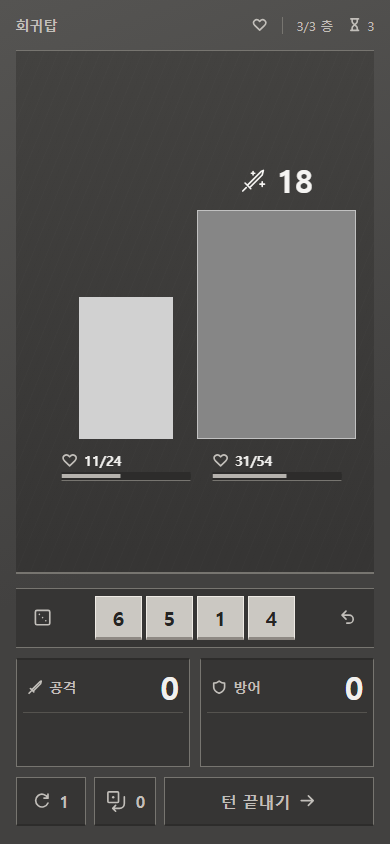
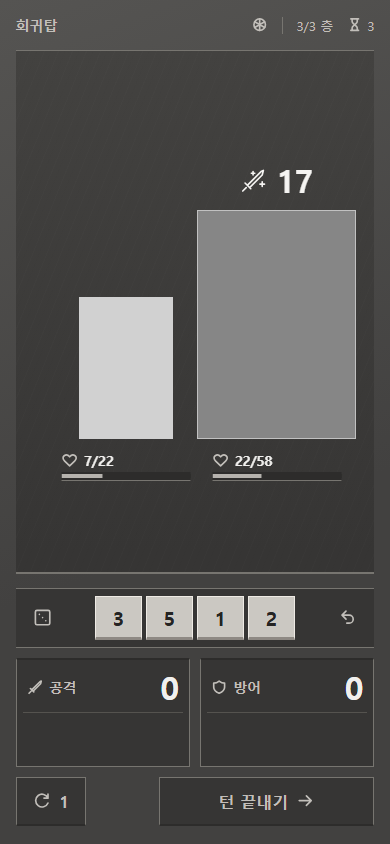
Measure defeat turns and narrow the fourth-die completion gap

diff --git a/src/ascent.ts b/src/ascent.ts
@@ -8,32 +8,35 @@ import type { Hand, YachtBattle } from './yacht-combat.ts'
 export const ASCENT_ENEMIES = [
   {
     hp: 30,
+    attackPerUnlock: 0,
     intents: [
-      { ...ENEMY_INTENTS[0], hits: [13] },
-      ENEMY_INTENTS[1],
+      { ...ENEMY_INTENTS[0], hits: [15] },
+      { ...ENEMY_INTENTS[1], hits: [3, 3, 3] },
     ],
   },
   {
-    hp: 52,
+    hp: 45,
+    attackPerUnlock: 2,
     intents: [
-      { id: 'combo', name: '연타', hits: [3, 3, 3], matches: (turn) => turn % 4 === 1 },
-      { id: 'impact', name: '한 방', hits: [3], matches: (turn) => turn % 4 === 2 },
+      { id: 'combo', name: '연타', hits: [1, 1, 2], matches: (turn) => turn % 4 === 1 },
+      { id: 'impact', name: '한 방', hits: [12], matches: (turn) => turn % 4 === 2 },
       { id: 'charge', name: '힘 모으기', hits: [], previewNextAttack: true, matches: (turn) => turn % 4 === 3 },
-      { id: 'critical', name: '치명 일격', hits: [16], matches: (turn) => turn % 4 === 0 },
+      { id: 'critical', name: '치명 일격', hits: [14], matches: (turn) => turn % 4 === 0 },
     ],
   },
   {
-    hp: 54,
+    hp: 58,
+    attackPerUnlock: 1,
     attackGrowth: 0,
     intents: [
-      { id: 'combo', name: '연타', hits: [1, 1, 1, 1], matches: (turn) => turn % 5 === 1 },
+      { id: 'combo', name: '연타', hits: [2, 2], matches: (turn) => turn % 5 === 1 },
       { id: 'charge', name: '힘 모으기', hits: [], previewNextAttack: true, matches: (turn) => turn % 5 === 2 },
       { id: 'critical', name: '치명 일격', hits: [16], matches: (turn) => turn % 5 === 3 },
-      { id: 'knockdown', name: '넉다운', hits: [], damageTakenMultiplier: 1.5, matches: (turn) => turn % 5 === 4 },
-      { id: 'impact', name: '한 방', hits: [7], matches: (turn) => turn % 5 === 0 },
+      { id: 'knockdown', name: '넉다운', hits: [], damageTakenMultiplier: 3, matches: (turn) => turn % 5 === 4 },
+      { id: 'impact', name: '한 방', hits: [12], matches: (turn) => turn % 5 === 0 },
     ],
   },
-] as const satisfies readonly Enemy[]
+] as const satisfies readonly (Enemy & { readonly attackPerUnlock: number })[]
 
 export const FIGHT_COUNT = ASCENT_ENEMIES.length
 
@@ -74,9 +77,10 @@ export function nextAscentFight(ascent: Ascent): Ascent {
   const { seed, perk, unlocks } = ascent
   const fight = ascent.fight + 1
   const fightSeed = (seed ^ Math.imul(fight - 1, 0x9e3779b9)) >>> 0
+  const enemy = ASCENT_ENEMIES[fight - 1]
   const battle = startYachtBattle(
     fightSeed, ascent.battle.playerHp, unlocks.includes('triple'), unlocks.includes('straight'), perk,
-    ASCENT_ENEMIES[fight - 1], unlocks.length,
+    enemy, unlocks.length * enemy.attackPerUnlock,
   )
   return { ...ascent, fight, battle, newUnlock: null }
 }

diff --git a/exp/boss/REPORT-BOSS.md b/exp/boss/REPORT-BOSS.md
@@ -1,69 +1,83 @@
-# 첫 전투와 보스 행동 실험
+# 보스 치명 일격과 네 번째 주사위 격차
 
-`node exp/level.mjs`로 시드 0~511을 실행했다. 공개 기준판은 `3bc6bbd`, 직전 실험판은 `70fa194`다. 대응 봇은 시드마다 나머지 511개 시드의 완주 수로 제시된 특전 세 개의 순위를 매기고, 동률이면 제시 순서대로 골랐다. 승률의 분모는 해당 전투 진입 수다. 전체 평균은 패배한 전투도 포함한다. 정확 방어 룰렛은 해당 턴에 포함했다.
+`node exp/level.mjs`로 기준판 `0f0e81b`와 조정판을 각각 시드 0~511에서 실행했다. 대응 봇은 각 시드에서 나머지 511개 시드의 완주 수를 기준으로 제시된 특전 중 하나를 고른다. 동률이면 제시 순서대로 고른다. 전투 승률의 분모는 그 전투에 진입한 등반 수이고, 전체 턴 평균에는 패배가 포함된다. 룰렛은 발생한 턴에 포함했다.
 
-## AI가 정한 적 수치
+## 네 번째 주사위 없이 패배한 턴
 
-| 전투 | 적 체력 직전 → 현행 | 연타 직전 → 현행 | 한 방 직전 → 현행 | 치명 일격 직전 → 현행 |
-| --- | ---: | ---: | ---: | ---: |
-| 1 | 30 | 4×3 | 13 | — |
-| 2 | 27 → 52 | 1×11 → 3×3 | 4 → 3 | 35 → 16 |
-| 3 보스 | 33 → 54 | 1×7 → 1×4 | 8 → 7 | 23 → 16 |
+트리플을 한 번도 해금하지 않고 끝난 등반의 마지막 전투·턴·적 행동을 집계했다. 일반 수는 한 방과 연타다. `node exp/level.mjs`의 `noTripleDefeats`에 턴별 세부 행동과 진입 시 버프가 있던 패배 수도 출력된다.
 
-2·3전투는 진입 시 해금 수에 따라 타격당 +0~2를 적용한다. 보스의 턴 경과 보정은 0이다.
+| 전투 | 종료 행동 | 기준판 패배 턴과 건수 | 합계 | 조정판 패배 턴과 건수 | 합계 |
+| --- | --- | --- | ---: | --- | ---: |
+| 1 | 일반 수 | 3턴 2, 4턴 1, 5턴 8, 6턴 5, 7턴 5, 8턴 1, 9턴 1, 10턴 2, 11턴 1 | 26 | 3턴 10, 4턴 2, 5턴 12, 7턴 2 | 26 |
+| 2 | 일반 수 | 1턴 3, 5턴 8 | 11 | 2턴 20, 5턴 2, 6턴 12 | 34 |
+| 2 | 치명 일격 | 4턴 87 | 87 | 4턴 66, 8턴 2 | 68 |
+| 2 | 힘 모으기 | 0 | 0 | 0 | 0 |
+| 3 | 일반 수 | 5턴 2 | 2 | 5턴 1 | 1 |
+| 3 | 치명 일격 | 3턴 116 | 116 | 3턴 113 | 113 |
+| 3 | 힘 모으기 | 0 | 0 | 0 | 0 |
+| 3 | 넉다운 | 0 | 0 | 0 | 0 |
 
-| 전투 | 진입 시 해금 수 | 치명 일격 | 다른 행동의 최대 피해 합 | 치명 일격의 피해 우위 |
-| --- | ---: | ---: | ---: | ---: |
-| 2 | 0 / 1 / 2 | 16 / 17 / 18 | 9 / 12 / 15 | +7 / +5 / +3 |
-| 3 보스 | 0 / 1 / 2 | 16 / 17 / 18 | 7 / 8 / 12 | +9 / +9 / +6 |
+두 판 모두 미획득 패배는 242회였다. 기준판에서 치명 일격 턴 패배는 203회였고 그중 116회는 3연속 해금으로 진입 시 적 버프가 이미 붙어 있었다. 조정판의 치명 일격 턴 패배는 181회였다. 넉다운과 힘 모으기에서 발생한 패배는 두 판 모두 0회였다.
 
-치명 일격 최대 피해는 18이며, 기본 플레이어 최대 체력은 22다. 피해 16·17·18은 각각 `[6, 6, 4]`, `[6, 6, 5]`, `[6, 6, 6]`으로 정확 방어할 수 있다.
+## 조정 순서와 적용 수치
 
-| 보스 턴 | 행동 | 적이 주는 피해 | 예고 숫자 | 플레이어 공격 |
-| --- | --- | ---: | ---: | --- |
-| 2, 7, 12… | 힘 모으기 | 0 | 다음 치명 일격 16~18 | 공격 합 ×1 |
-| 3, 8, 13… | 치명 일격 | 16~18 | 16~18 | 공격 합 ×1. 정확 방어 시 룰렛 |
-| 4, 9, 14… | 넉다운 | 0 | ×1.5 | 공격 합 ×1.5, 소수점 내림 |
+| 순서 | 비교한 수치 | 관측 결과 |
+| --- | --- | --- |
+| 1. 해금당 타격 피해 | +1 기준에서 +2와 +3을 시험했다. 피해 상한에 맞춰 치명 일격과 연타의 기본 피해를 낮췄다. | +2는 격차 34.42%p, 완주 71.29%였다. +3은 격차 26.01%p, 완주 79.88%였다. 두 조합 모두 2전투 승률과 완주율 상한을 넘었다. |
+| 2. 보스 체력과 넉다운 배수 | 보스 체력 29~74, 배수 ×1.25~×4를 비교했다. | 나머지 목표 띠에 든 후보의 예로 보스 체력 54와 ×2에서 격차 51.33%p가 나왔다. |
+| 3. 치명 일격의 최소 피해 우위 | 3에서 2로 낮췄다. 2전투를 기준 수치로 두고 보스 해금당 +2, 체력 74, ×1.25를 시험했다. | 격차 47.73%p였고 완주율 52.73%로 목표 상한을 넘었다. |
+| 4. 1·2전투 수치 | 앞서 시험한 버프와 보스 수치를 포함해 적 체력과 행동별 피해를 함께 조정했다. | 피해 상한과 나머지 띠를 충족한 조합 가운데 격차가 가장 낮은 40.40%p를 실험 갈래에 적용했다. |
 
-2전투는 3·7·11…턴의 힘 모으기에서 다음 치명 일격 피해 16~18을 예고한다.
+| 전투 | 적 체력 기준 → 조정 | 연타 기준 → 조정 | 한 방 기준 → 조정 | 치명 일격 기준 → 조정 | 해금당 타격 피해 보정 |
+| --- | ---: | --- | ---: | ---: | ---: |
+| 1 | 30 → 30 | 4×3 → 3×3 | 13 → 15 | — | 0 |
+| 2 | 52 → 45 | 3×3 → 1+1+2 | 3 → 12 | 16 → 14 | +1 → +2 |
+| 3 보스 | 54 → 58 | 1×4 → 2×2 | 7 → 12 | 16 → 16 | +1 → +1 |
+
+보스 넉다운의 받는 피해 배수는 ×1.5에서 ×3으로 바꿨다. 적의 타격 피해 보정은 전투 진입 시 해금 수에 새 값을 곱한다. 2전투는 해금 0·1·2개에서 치명 일격이 각각 14·16·18, 다른 행동의 최대 피해 합은 12·14·16이다. 보스는 치명 일격이 16·17·18, 다른 행동의 최대 피해 합은 12·13·14다. 두 전투의 치명 일격은 최대 18로, 기본 최대 체력 22보다 작고 모든 해금 수에서 세 주사위로 정확 방어할 수 있다.
+
+버프는 네 번째 주사위 없이 3연속만 해금한 등반에도 적용된다. 치명 일격 상한 18과 최소 피해 우위 2 때문에 다른 행동의 피해도 최대 16으로 제한된다. 적용 조합에서도 미획득 패배 242회 중 181회가 치명 일격 턴에 집중됐고, 동일한 시점에서 비교한 트리플 획득 집단의 완주율은 아래와 같이 높았다. 이 조건에서 15%p 이하인 조합을 이번 탐색에서는 찾지 못했다.
 
 ## 전투별 평균 턴과 승률
 
-| 특전 조건 | 전투 | 승리 평균 턴 공개 → 직전 → 현행 | 전체 평균 턴 공개 → 직전 → 현행 | 승률 공개 → 직전 → 현행 |
-| --- | --- | ---: | ---: | --- |
-| 대응 봇 선택 | 1 | 5.55 → 3.02 → 3.67 | 5.64 → 3.12 → 3.83 | 94.14% → 95.31% → 485/512 (94.73%) |
-| 대응 봇 선택 | 2 | 4.68 → 3.12 → 5.99 | 4.67 → 2.60 → 5.57 | 75.73% → 75.41% → 383/485 (78.97%) |
-| 대응 봇 선택 | 3 | 2.89 → 2.98 → 4.83 | 2.49 → 2.86 → 4.22 | 62.47% → 69.02% → 253/383 (66.06%) |
-| 없음 | 1 | 5.71 → 3.98 → 3.98 | 5.84 → 4.17 → 4.17 | 88.28% → 87.89% → 450/512 (87.89%) |
-| 없음 | 2 | 4.76 → 3.36 → 6.17 | 4.61 → 2.64 → 5.61 | 69.69% → 69.33% → 322/450 (71.56%) |
-| 없음 | 3 | 2.91 → 3.00 → 4.83 | 2.46 → 2.88 → 4.12 | 58.73% → 61.22% → 198/322 (61.49%) |
+| 전투 | 승리 평균 턴 기준 → 조정 | 전체 평균 턴 기준 → 조정 | 승률 기준 → 조정 |
+| --- | ---: | ---: | --- |
+| 1 | 3.67 → 3.32 | 3.83 → 3.37 | 485/512 (94.73%) → 486/512 (94.92%) |
+| 2 | 5.99 → 5.23 | 5.57 → 4.94 | 383/485 (78.97%) → 376/486 (77.37%) |
+| 3 | 4.83 → 4.06 | 4.22 → 3.69 | 253/383 (66.06%) → 244/376 (64.89%) |
 
 ## 레벨 목표 띠
 
-특전을 고르는 대응 봇 512개 등반 기준이다. 해금 차이는 4번째 주사위 획득 여부별 완주율의 절대 차이다.
-
-| 지표 | 목표 | 공개 기준판 | 직전 | 현행 | 판정 |
-| --- | ---: | ---: | ---: | ---: | --- |
-| 1전투 승리 평균 턴 | 3~4 | 5.55 | 3.02 | 3.67 | 충족 |
-| 1전투 전체 평균 턴 | 3~4 | 5.64 | 3.12 | 3.83 | 충족 |
-| 1전투 승률 | 90~97% | 94.14% | 95.31% | 94.73% | 충족 |
-| 2전투 승률 | 70~80% | 75.73% | 75.41% | 78.97% | 충족 |
-| 3전투 승률 | 55~70% | 62.47% | 69.02% | 66.06% | 충족 |
-| 완주율 | 35~50% | 228/512 (44.53%) | 254/512 (49.61%) | 253/512 (49.41%) | 충족 |
-| 4번째 주사위 획득 등반 완주율 | — | 71/129 (55.04%) | 75/125 (60.00%) | 123/140 (87.86%) | — |
-| 4번째 주사위 미획득 등반 완주율 | — | 157/383 (40.99%) | 179/387 (46.25%) | 130/372 (34.95%) | — |
-| 해금 차이 | ≤15%p | 14.05%p | 13.75%p | 52.91%p | 미충족 |
-
-피해 상한, 치명 일격의 최소 피해 우위, 전투별 목표 띠를 모두 충족하는 조합은 이번 탐색에서 찾지 못했다. 적용 조합은 두 전투의 연타 합과 한 방 피해를 줄이고, 적 체력을 올려 승률과 완주율을 맞췄다.
+| 지표 | 목표 | 기준판 | 조정판 | 판정 |
+| --- | ---: | ---: | ---: | --- |
+| 1전투 승리 평균 턴 | 3~4 | 3.67 | 3.32 | 충족 |
+| 1전투 전체 평균 턴 | 3~4 | 3.83 | 3.37 | 충족 |
+| 1전투 승률 | 90~97% | 94.73% | 94.92% | 충족 |
+| 2전투 승률 | 70~80% | 78.97% | 77.37% | 충족 |
+| 3전투 승률 | 55~70% | 66.06% | 64.89% | 충족 |
+| 완주율 | 35~50% | 253/512 (49.41%) | 244/512 (47.66%) | 충족 |
+| 네 번째 주사위 획득 등반 완주율 | — | 123/140 (87.86%) | 95/121 (78.51%) | — |
+| 미획득 등반 완주율 | — | 130/372 (34.95%) | 149/391 (38.11%) | — |
+| 획득 여부별 완주율 차이 | ≤15%p | 52.91%p | 40.40%p | 미충족 |
 
 특전을 다음 단계에서 전면 교체하므로 무특전 대비 +5%p 목표는 이번 조정의 통과 기준에서 제외했다.
+
+## 트리플 획득 시점 이후 완주율
+
+첫 트리플이 나온 턴의 배치 결과 직후를 기준으로, 같은 전투·턴과 남은 전투 수에서 살아 있는 미획득 등반과 비교했다. 진행 중인 전투는 남은 전투에 포함했다. 미획득 등반은 이후 트리플을 얻을 수 있으며, 각 시점의 완주율을 그 시점의 획득 건수로 가중했다. 비교군이 없는 획득 건은 두 판 모두 0회였다.
+
+| 남은 전투 | 기준 획득 완주 | 기준 미획득 가중 완주율 | 기준 차이 | 조정 획득 완주 | 조정 미획득 가중 완주율 | 조정 차이 | 조정 비교 관측 수 |
+| --- | ---: | ---: | ---: | ---: | ---: | ---: | ---: |
+| 3 | 36/38 (94.74%) | 44.85% | 49.89%p | 21/27 (77.78%) | 44.11% | 33.67%p | 1073 |
+| 2 | 45/51 (88.24%) | 46.13% | 42.11%p | 40/47 (85.11%) | 49.30% | 35.81%p | 1271 |
+| 1 | 37/40 (92.50%) | 65.91% | 26.59%p | 27/33 (81.82%) | 59.86% | 21.95%p | 551 |
 
 ## 검증
 
 - `npm.cmd test` 48/48, `npx.cmd --no-install tsc --noEmit`, `npm.cmd run build` 통과.
-- 시험에서 2·3전투 각각 해금 0·1·2개의 치명 일격 피해가 24 이하이면서 22 미만임을 확인했다. 각 경우에 세 주사위로 정확 방어해 룰렛이 열렸다.
-- 시드 249와 추가 체력으로 3전투를 두 번 완주했다. 매 턴의 주사위와 배치, 해결 결과, 보스 치명 일격의 정확 방어 룰렛과 이어지는 넉다운을 시험에서 비교했다.
-- Edge 390×844, 시드 249, 추가 체력, 해금 2개. 2·3전투 힘 모으기와 치명 일격에 18이 표시됐다. 보스의 정확 방어 룰렛을 돌린 뒤 넉다운 예고가 표시됐다.
-- 보스 예고 캡처 · [힘 모으기 18](mobile-01-charge.png) · [치명 일격 18](mobile-02-critical.png) · [넉다운 ×1.5](mobile-03-knockdown.png)
+- 해금 0·1·2개 모두에서 2·3전투 치명 일격이 세 주사위로 정확 방어 가능하며, 다른 공격의 합보다 최소 2 크다는 시험을 통과했다.
+- 시드 245와 룰렛 강화로 3전투를 두 번 완주했다. 매 턴의 배치와 결과, 보스 치명 일격의 정확 방어 룰렛과 이어지는 넉다운이 일치했다.
+- Edge 390×844, 시드 245, 룰렛 강화, 3연속만 해금. 힘 모으기와 치명 일격 예고가 2전투에서 16, 보스전에서 17이었다. 주사위 세 개로 보스 치명 일격을 정확 방어해 룰렛을 돌린 뒤 넉다운 ×3 예고가 표시됐다.
+- 보스 예고 캡처 · [힘 모으기 17](mobile-01-charge.png) · [치명 일격 17](mobile-02-critical.png) · [넉다운 ×3](mobile-03-knockdown.png)
 
-진행 기록 · 2·3전투 피해와 적 체력을 조정하고 정확 방어 시험과 모바일 캡처 3장을 갱신했다.
+진행 기록 · 패배 턴 분포를 계측하고 피해 상한을 지킨 조합 중 선택한 수치와 캡처 3장을 기록했다.
